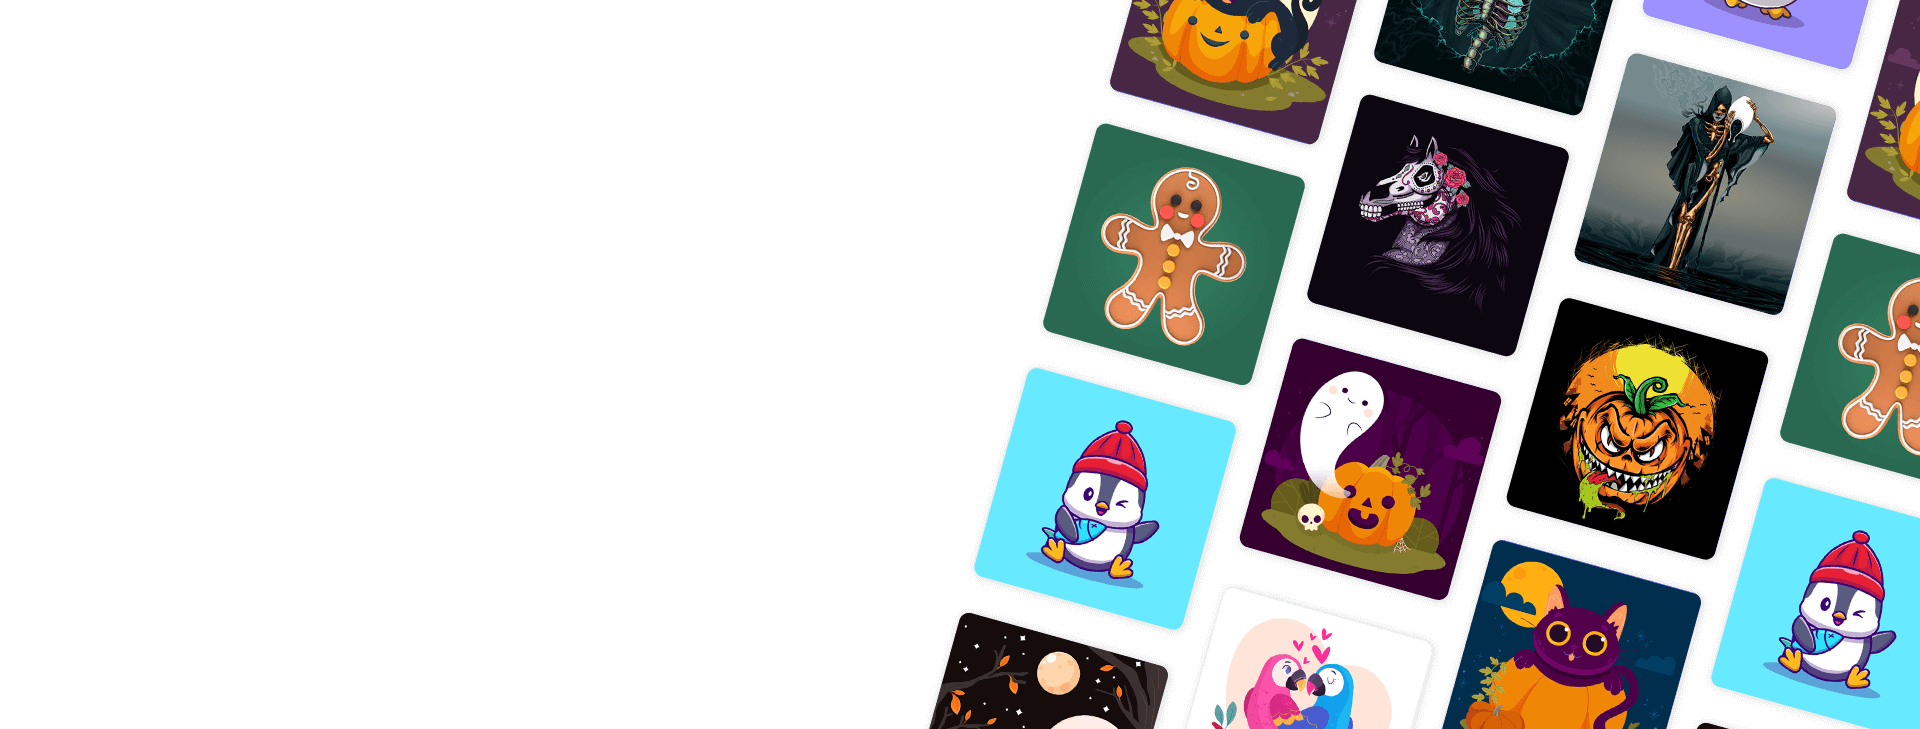
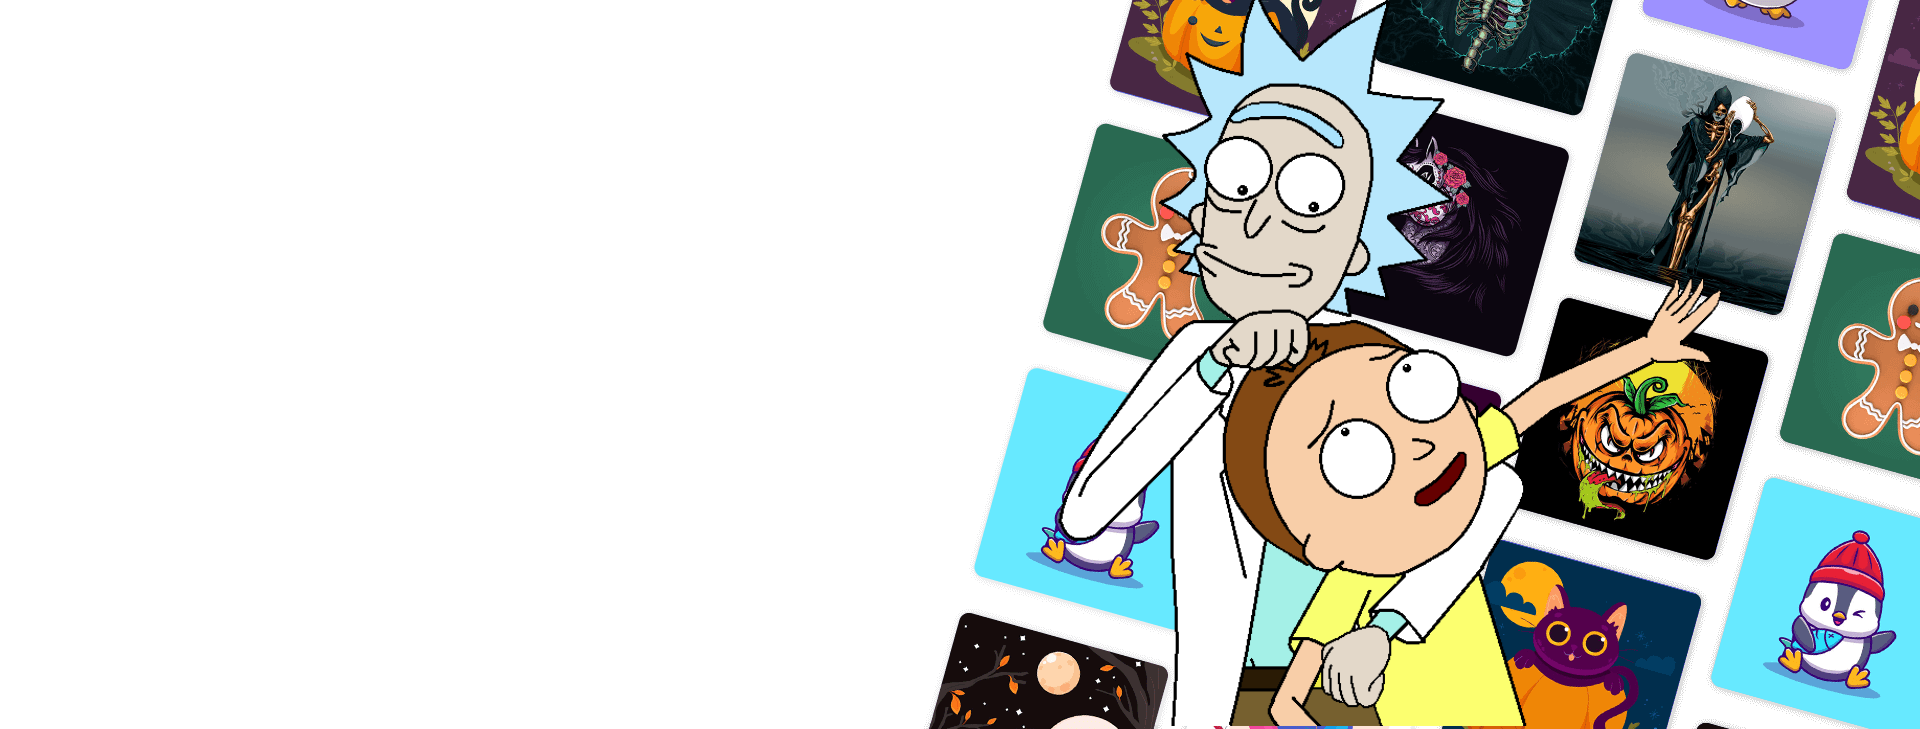
Cleanup

Changed region(s): [[0.5312, 0.0, 0.9062, 0.9959]]

diff --git a/app/locations/page.tsx b/app/locations/page.tsx
@@ -1,11 +1,9 @@
 "use client";
 
 import Navbar from "@/components/navbar";
-import { useSearchParams } from "next/navigation";
 import Head from "next/head";
 import { useEffect, useState } from "react";
 import axios from "@/api/axios";
-import { CharacterRepsonse } from "@/api/data/characterResponse";
 import {
   LocationData,
   LocationResponse,
@@ -53,7 +51,7 @@ export default function Location() {
           <>
             {/* Start Hero */}
             <>
-              <section className="relative table w-full py-32 lg:py-40 bg-gradient-to-br to-orange-600/20 via-fuchsia-600/20 from-indigo-600/20">
+              <section className="relative table w-full py-32 lg:py-40 bg-[url('/assets/img/header2.jpg')] bg-cover bg-center">
                 <div className="container">
                   <div className="grid grid-cols-1 text-center mt-10">
                     <h3 className="text-6xl leading-normal font-bold">

diff --git a/components/locations.tsx b/components/locations.tsx
@@ -15,11 +15,12 @@ const LocationSection: React.FC<LocationResponse> = ({
       <div className="container lg:mt-24 mt-16">
         <div className="grid grid-cols-1 pb-8 text-center">
           <h3 className="mb-4 md:text-3xl md:leading-normal text-2xl leading-normal font-semibold">
-            Featured Properties
+            Interdimensional Realty
           </h3>
           <p className="text-slate-400 max-w-xl mx-auto">
-            Start working with Tailwind CSS that can provide everything you need
-            to generate awareness, drive traffic, connect.
+            Dive into the bizarre and extraordinary with our curated selection
+            of Featured Properties inspired by the eclectic and unpredictable
+            worlds of Rick and Morty
           </p>
         </div>
 

diff --git a/app/location/page.tsx b/app/location/page.tsx
@@ -52,10 +52,10 @@ export default function Location() {
             {/* Start Hero */}
             {location ? (
               <>
-                <section className="relative table w-full py-32 lg:py-40 bg-gradient-to-br to-orange-600/20 via-fuchsia-600/20 from-indigo-600/20">
+                <section className="relative table w-full py-32 lg:py-40 bg-[url('/assets/img/header.jpg')] bg-cover bg-center">
                   <div className="container">
                     <div className="grid grid-cols-1 text-center mt-10">
-                      <h3 className="text-3xl leading-normal font-medium">
+                      <h3 className="text-6xl leading-normal font-bold">
                         {location.name}
                       </h3>
                     </div>

diff --git a/app/character/page.tsx b/app/character/page.tsx
@@ -1,7 +1,6 @@
 "use client";
 import axios from "@/api/axios";
 import { CharacterRepsonse } from "@/api/data/characterResponse";
-import Footer from "@/components/footer";
 import Navbar from "@/components/navbar";
 import Head from "next/head";
 import { useSearchParams } from "next/navigation";
@@ -150,7 +149,7 @@ export default function Character() {
                             </div>
                           </div>
                         )}
-                        <form className="w-full mt-16">
+                        <form className="w-full mt-8">
                           <label
                             htmlFor="notes"
                             className="block text-sm font-medium mb-2 dark:text-white"

diff --git a/helpers/characterStatus.ts b/helpers/characterStatus.ts
@@ -1,0 +1,18 @@
+function getStatusClassName(status: string) {
+  let className = "";
+
+  if (status === "Alive") {
+    className =
+      "inline-flex items-center gap-1.5 py-0.5 px-2 rounded-full text-xs font-medium bg-green-100 text-green-800 dark:bg-green-900 dark:text-green-200";
+  } else if (status === "Pending") {
+    className =
+      "inline-flex items-center gap-1.5 py-0.5 px-2 rounded-full text-xs font-medium bg-orange-100 text-orange-800 dark:bg-orange-900 dark:text-orange-200";
+  } else if (status === "Dead") {
+    className =
+      "inline-flex items-center gap-x-1.5 py-1.5 px-3 rounded-full text-xs font-medium bg-red-500 text-white";
+  }
+
+  return className;
+}
+
+export default getStatusClassName;

diff --git a/app/characters/page.tsx b/app/characters/page.tsx
@@ -36,7 +36,7 @@ export default function CharacterPage() {
             {/* Start Hero */}
             {location ? (
               <>
-                <section className="relative table w-full py-32 lg:py-40 bg-gradient-to-br to-orange-600/20 via-fuchsia-600/20 from-indigo-600/20">
+                <section className="relative table w-full py-32 lg:py-40 bg-[url('/assets/img/header.jpg')] bg-cover bg-center">
                   <div className="container">
                     <div className="grid grid-cols-1 text-center mt-10">
                       <h3 className="text-6xl leading-normal font-bold">
